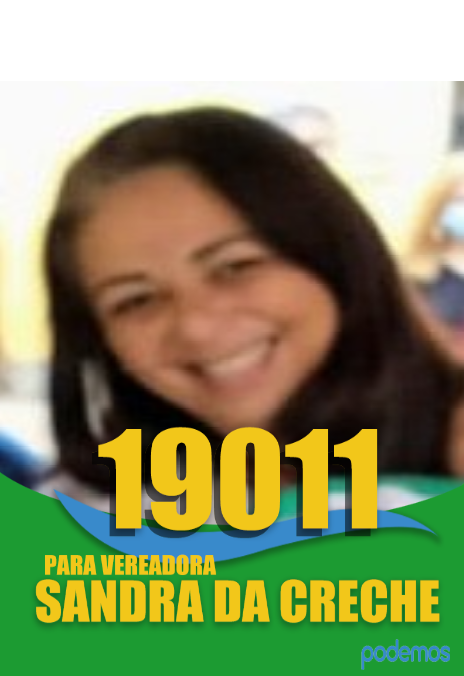
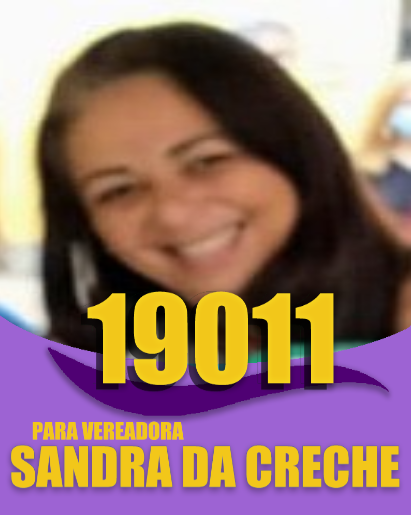
atualização artes
mudança nas artes

diff --git a/front/index.html b/front/index.html
@@ -27,6 +27,7 @@
                 <ul class="navbar-nav text-uppercase ml-auto">
                     <li class="nav-item"><a class="nav-link js-scroll-trigger" href="#portfolio"><b>Sobre</b></a></li>
                     <li class="nav-item"><a class="nav-link js-scroll-trigger" href="#about"><b>Propostas</b></a></li>
+                    <li class="nav-item"><a class="nav-link js-scroll-trigger" href="#eleicao"><b>Eleições 2020</b></a></li>
                     <li class="nav-item"><a class="nav-link js-scroll-trigger" href="#team"><b>#SouSandraDaCreche</b></a></li>
                     <li class="nav-item"><a class="nav-link js-scroll-trigger" href="#contact"><b>Contato</b></a></li>
                 </ul>
@@ -37,7 +38,7 @@
     <header class="masthead" style="padding-right: 1050px;">
         <div class="container">
             <div class="masthead-subheading"><b>Objetividade, realizações e mudanças</b></div>
-            <div class="masthead-heading text-uppercase">vereadora Sandra da creche 19011</div>
+            <div class="masthead-heading text-uppercase">Vereadora Sandra da creche 19011</div>
         </div>
     </header>
     <!--Sobre-->
@@ -112,16 +113,15 @@
                             <h4>Revitalização</h4>
                         </div>
                         <div class="timeline-body">
-                            <p class="text-muted">Revitalização das creches e escolas.</p>
+                            <p class="text-muted">Reformas e adequações nas unidades de creches e escolas, para ampliar a capacidade de atendimento.</p>
                         </div>
                     </div>
                 </li>
                 <li class="timeline-inverted">
                     <div class="timeline-image">
                         <h4>
-                            Vamos mudar
-                            <br /> a educação de Juiz de fora
-                            <br /> Juntos!
+                            Mudanças traz progresso: valorização para educação!
+                           
                         </h4>
                     </div>
                 </li>
@@ -178,9 +178,9 @@
                 <h3 class="section-subheading text-muted">Carinho e empatia com as pessoas, por uma Juiz de Fora melhor, vote certo, vote 19011</h3>
             </div>
             <div class="row text-center">
-                <div class="col-md-4" style=" width: 10px; height: 20px;" !important>
+                <div class="col-md-4" >
                     <div class="portfolio-item">
-                        <img class="img-fluid" src="assets/img/team/carla1.png" alt="" style="width: 200px; height: 200px;" />
+                        <img class="img-fluid" src="assets/img/team/Carla.png" alt="" style="width: 200px; height: 200px;" />
                         </a>
                     </div>
                     <h5 class="my-3">Sandra é uma pessoa alegre, positiva e muito organizada. Tem uma grande sabedoria estamos torcendo por você! </h5>
@@ -188,7 +188,7 @@
                 </div>
                 <div class="col-md-4">
                     <div class="portfolio-item">
-                        <img class="img-fluid" src="assets/img/team/rosana.png" alt="" style="width: 200px; height: 200px;" />
+                        <img class="img-fluid" src="assets/img/team/Rosana.png" alt="" style="width: 200px; height: 200px;" />
                         </a>
                     </div>
                     <h5 class="my-3">Uma pessoa impactante e maravilhosa, onde chega faz a diferença, essa é a Sandra da creche!
@@ -197,7 +197,7 @@
                 </div>
                 <div class="col-md-4">
                     <div class="portfolio-item">
-                        <img class="img-fluid" src="assets/img/team/vanderlene.png" alt="" style="width: 200px; height: 200px;" />
+                        <img class="img-fluid" src="assets/img/team/Vanderlene.png" alt="" style="width: 200px; height: 200px;" />
                         </a>
                     </div>
                     <h5 class="my-3">Sandra, uma mulher com garra, força e determinação </h5>
@@ -230,9 +230,7 @@
                 <div class="col-md-6">
                     <div class="portfolio-item">
                         <a class="portfolio-link" data-toggle="modal" href="#portfolioModal1">
-                            <div class="portfolio-hover">
-                                <div class="portfolio-hover-content"><i class="fas fa-plus fa-3x"></i></div>
-                            </div>
+                            <div class="portfolio-hover"></div>
                             <img style="width: 600px; height: 450px;" class="img-fluid" src="assets/img/portfolio/MiniaturaVideo1.png" alt="" />
                         </a>
                         <div class="portfolio-caption">
@@ -244,9 +242,7 @@
                 <div class="col-md-6">
                     <div class="portfolio-item">
                         <a class="portfolio-link" data-toggle="modal" href="#portfolioModal3">
-                            <div class="portfolio-hover">
-                                <div class="portfolio-hover-content"><i class="fas fa-plus fa-3x"></i></div>
-                            </div>
+                            <div class="portfolio-hover"></div>
                             <img style="width: 600px; height: 450px;" class="img-fluid" src="assets/img/portfolio/sandraYoutube.jpg" alt="" />
                         </a>
                         <div class="portfolio-caption">
@@ -264,24 +260,24 @@
     <section class="page-section" id="contact">
         <div class="container">
             <div class="text-center">
-                <h2 class="section-heading text-uppercase">Conte comigo, e me conte em como posso ajuda-lo</h2>
+                <h2 class="section-heading text-uppercase">Como posso contribuir com sua comunidade?</h2>
                 <h3 class="section-subheading text-muted">Deixe aqui seu pedido de mundaça para Juiz de Fora</h3>
             </div>
             <form id="contactForm" name="sentMessage" novalidate="novalidate">
                 <div class="row align-items-stretch mb-5">
                     <div class="col-md-6">
                         <div class="form-group">
-                            <input class="form-control" id="name" type="text" placeholder="Seu nome *" required="required" data-validation-required-message="Por favor insira seu nome." />
+                            <input class="form-control" id="name" type="text" placeholder="Escreva seu nome *" required="required" data-validation-required-message="Por favor insira seu nome." />
                             <p class="help-block text-danger"></p>
                         </div>
                         <div class="form-group">
-                            <input class="form-control" id="email" type="email" placeholder="Seu email *" required="required" data-validation-required-message="Por favor insira seu melhor email." />
+                            <input class="form-control" id="email" type="email" placeholder="Escreva seu email *" required="required" data-validation-required-message="Por favor insira seu melhor email." />
                             <p class="help-block text-danger"></p>
                         </div>
                     </div>
                     <div class="col-md-6">
                         <div class="form-group form-group-textarea mb-md-0">
-                            <textarea class="form-control" id="message" placeholder="Sua mensagem *" required="required" data-validation-required-message="Por favor insira sua mensagem."></textarea>
+                            <textarea class="form-control" id="message" placeholder="Deixe sua mensagem *" required="required" data-validation-required-message="Por favor insira sua mensagem."></textarea>
                             <p class="help-block text-danger"></p>
                         </div>
                     </div>
@@ -326,7 +322,7 @@
                                 <h3 class="text-uppercase">Eu apoio a <b>Educação</b></h3>
                                 <p class="item-intro text-muted">"Excelente profissional, busca sempre a melhoria e bem estar dar famílias com quem lida, com muito bom astral e um carisma enorme. Faz tudo com muito amor e selo, parabéns!"</p>
                                 <p class="item-intro text-muted"> - Simone Dias</p>
-                                <iframe id="iFrameYtb" width="650" height="500" src="https://www.youtube.com/embed/rCmvO8bOB5U" frameborder="1" allow="accelerometer; autoplay; clipboard-write; encrypted-media; gyroscope; picture-in-picture" allowfullscreen></iframe>
+                                <iframe id="iFrameYtb" class="modal-content" width="650" height="500" src="https://www.youtube.com/embed/rCmvO8bOB5U" frameborder="1" allow="accelerometer; autoplay; clipboard-write; encrypted-media; gyroscope; picture-in-picture" allowfullscreen></iframe>
                                 <ul class="list-inline">
                                     <li>Vote na educação !</li>
                                     <li>Vote Sandra da creche</li>
@@ -358,7 +354,7 @@
                                 <h3 class="text-uppercase">Eu apoio a <b>Educação</b></h3>
                                 <p class="item-intro text-muted">"Excelente profissional, busca sempre a melhoria e bem estar dar famílias com quem lida, com muito bom astral e um carisma enorme. Faz tudo com muito amor e selo, parabéns!"</p>
                                 <p class="item-intro text-muted"> - Simone Dias</p>
-                                <iframe id="iFrameYtb" width="800" height="500" src="https://www.youtube.com/embed/dnSbPh4bpt8" frameborder="1" allow="accelerometer; autoplay; clipboard-write; encrypted-media; gyroscope; picture-in-picture" allowfullscreen></iframe>
+                                <iframe class="modal-content" width="800" height="500" src="https://www.youtube.com/embed/dnSbPh4bpt8" frameborder="1" allow="accelerometer; autoplay; clipboard-write; encrypted-media; gyroscope; picture-in-picture" allowfullscreen></iframe>
                                 <ul class="list-inline">
                                     <li>Vote na educação !</li>
                                     <li>Vote Sandra da creche</li>

diff --git a/front/css/styles.css b/front/css/styles.css
@@ -10245,7 +10245,7 @@ img::-moz-selection {
     #mainNav.navbar-shrink {
         padding-top: 1rem;
         padding-bottom: 1rem;
-        background-color: #2DA833;
+        background-color: #87CEFA;
     }
     #mainNav.navbar-shrink .navbar-brand {
         font-size: 1.25em;
